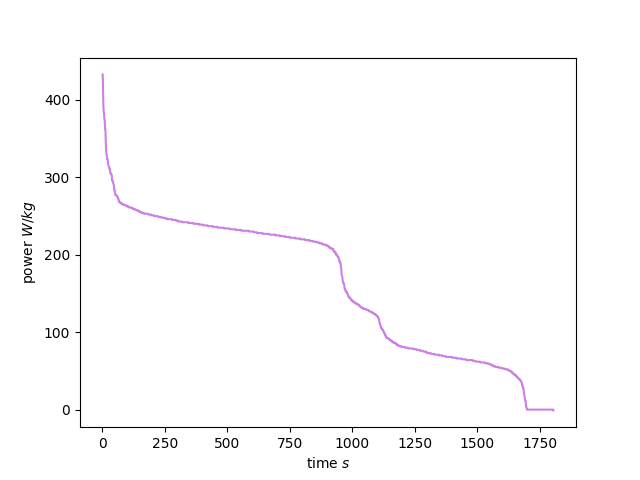
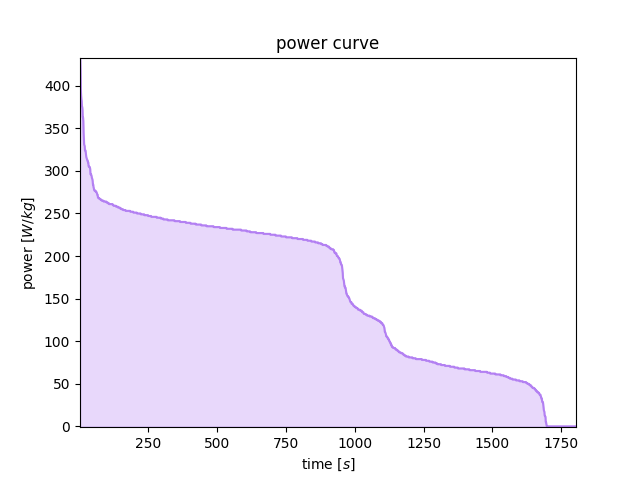
made the graph pretty and wrote into the readme

Changed region(s): [[0.0312, 0.1562, 0.9062, 1.0], [0.4375, 0.0625, 0.5938, 0.125], [0.0625, 0.1562, 0.125, 0.2188]]

diff --git a/power_curve.py b/power_curve.py
@@ -14,9 +14,15 @@ print(sorted_power_W[::-1])
 time = np.arange(1,1805)
 power = sorted_power_W[::-1]
 
-plt.plot(time, power, color = [0.8, 0.5, 0.9])
-plt.xlabel("time $s$")
-plt.ylabel("power $W$/$kg$")
+curve, = plt.plot(time, power, color = [0.7, 0.5, 0.95])
+plt.title("power curve")
+plt.xlabel("time [$s$]")
+plt.ylabel("power [$W$/$kg$]")
+plt.fill_between(time, power,
+                 color=curve.get_color(),
+                 alpha=0.3,
+                 zorder=curve.get_zorder() - 1)
+plt.margins(0,0)
 plt.savefig("figures\power_curve.png")
 plt.show()
 

diff --git a/README.md b/README.md
@@ -1,3 +1,19 @@
-# Programmieren-2-Aufgabe-1
+# Programmieren-2-Aufgabe-1: Power Curve Project
 
-Beschreibung 
+This project generates a power‑curve plot using Python and Matplotlib. 
+![Power Curve](figures\power_curve.png)
+
+The project uses **PDM** as the package and environment manager to ensure reproducible installations.
+
+---
+## Installation with PDM
+
+Make sure PDM is installed:
+
+```bash
+pip install pdm
+
+## Run the file: 
+ pdm run python power_curve.py
+
+